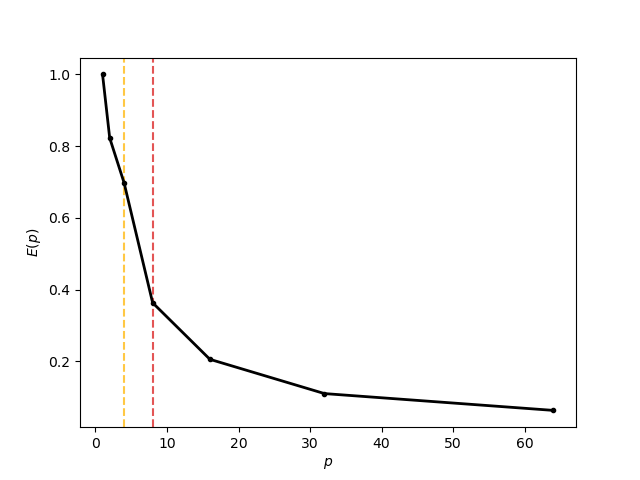
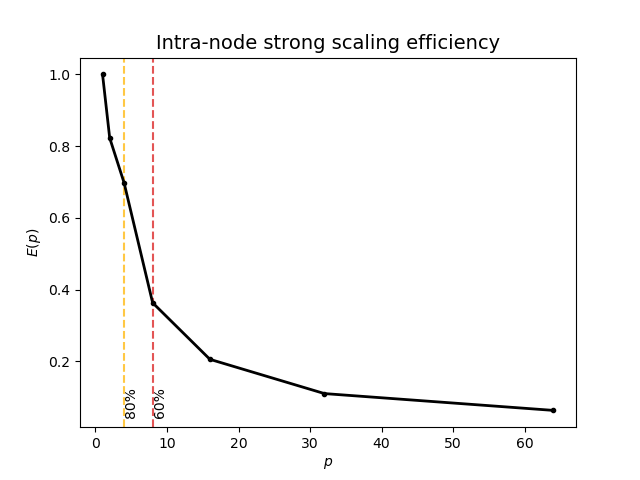
intranode: add title and vertical line labels

Changed region(s): [[0.25, 0.0625, 0.7812, 0.125], [0.1875, 0.8125, 0.2812, 0.875]]

diff --git a/scripts/intranode_times_to_graph.py b/scripts/intranode_times_to_graph.py
@@ -57,8 +57,12 @@ def intranode_times_to_graph(times: list[tuple[int, float]]) -> plt.Figure:
     ax.set_ylabel(r'$E(p)$')
 
     ax.axvline(x=p_crit_80, color="#ffc844", linestyle="--")
+    ax.text(p_crit_80, 0.05, "80%", rotation=90)
     ax.axvline(x=p_crit_60, color="#e35555", linestyle="--")
+    ax.text(p_crit_60, 0.05, "60%", rotation=90)
     ax.plot(core_counts, efficiency, '.-', color="black", linewidth=2)
+
+    ax.set_title("Intra-node strong scaling efficiency", fontsize=14)
 
     return fig
 
